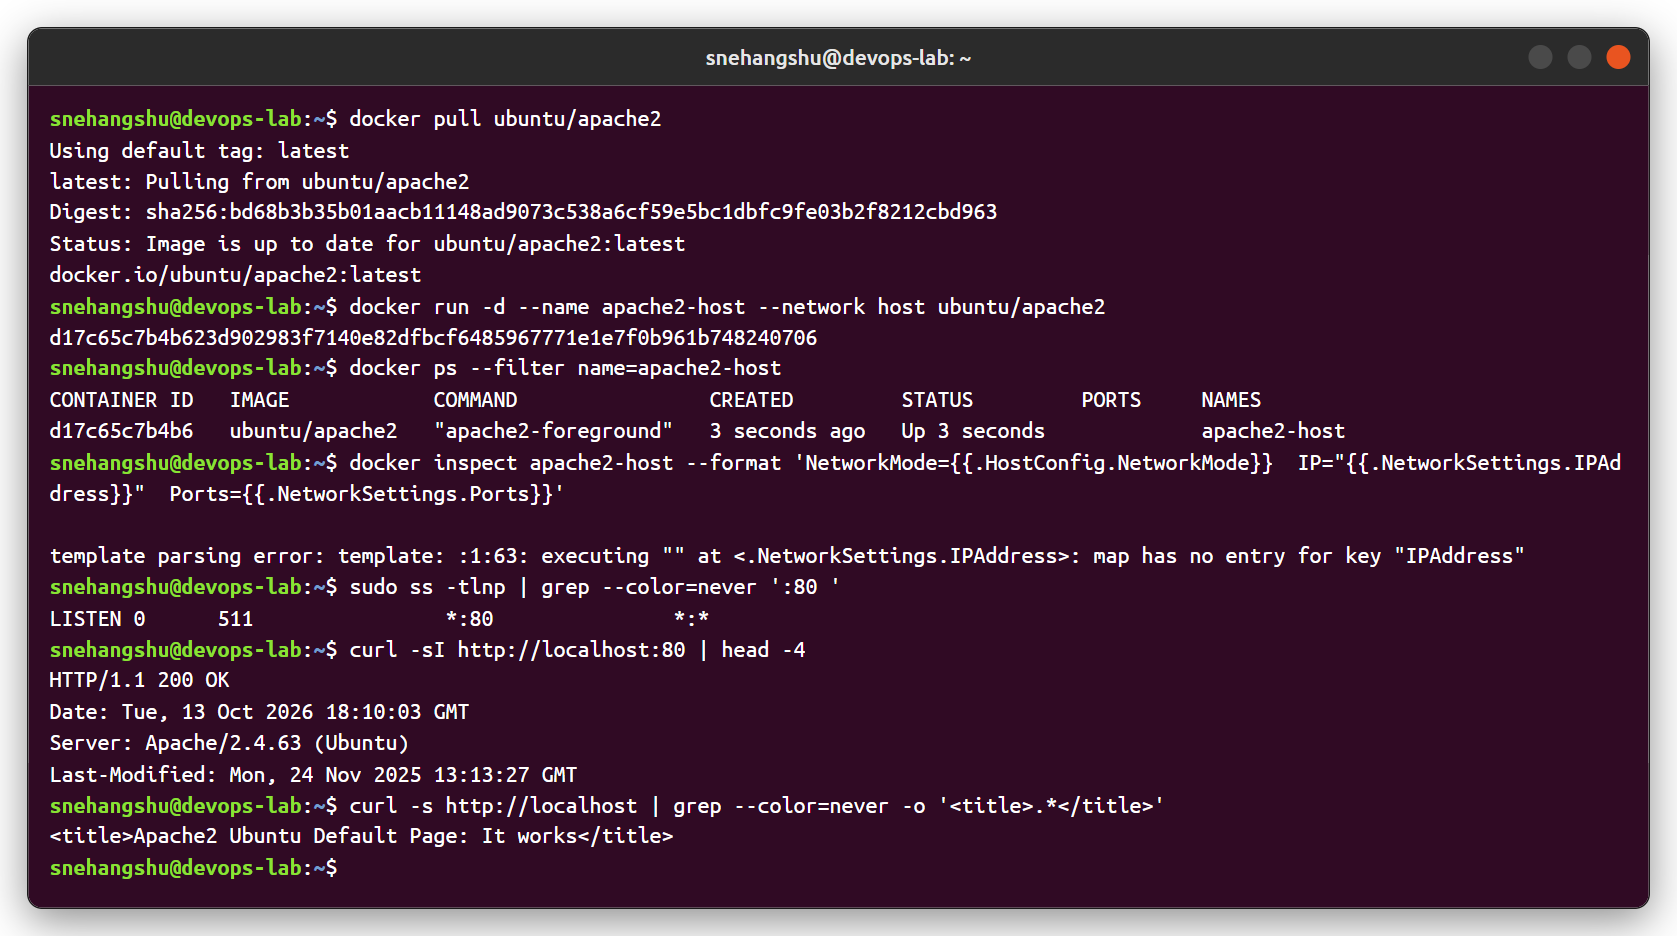
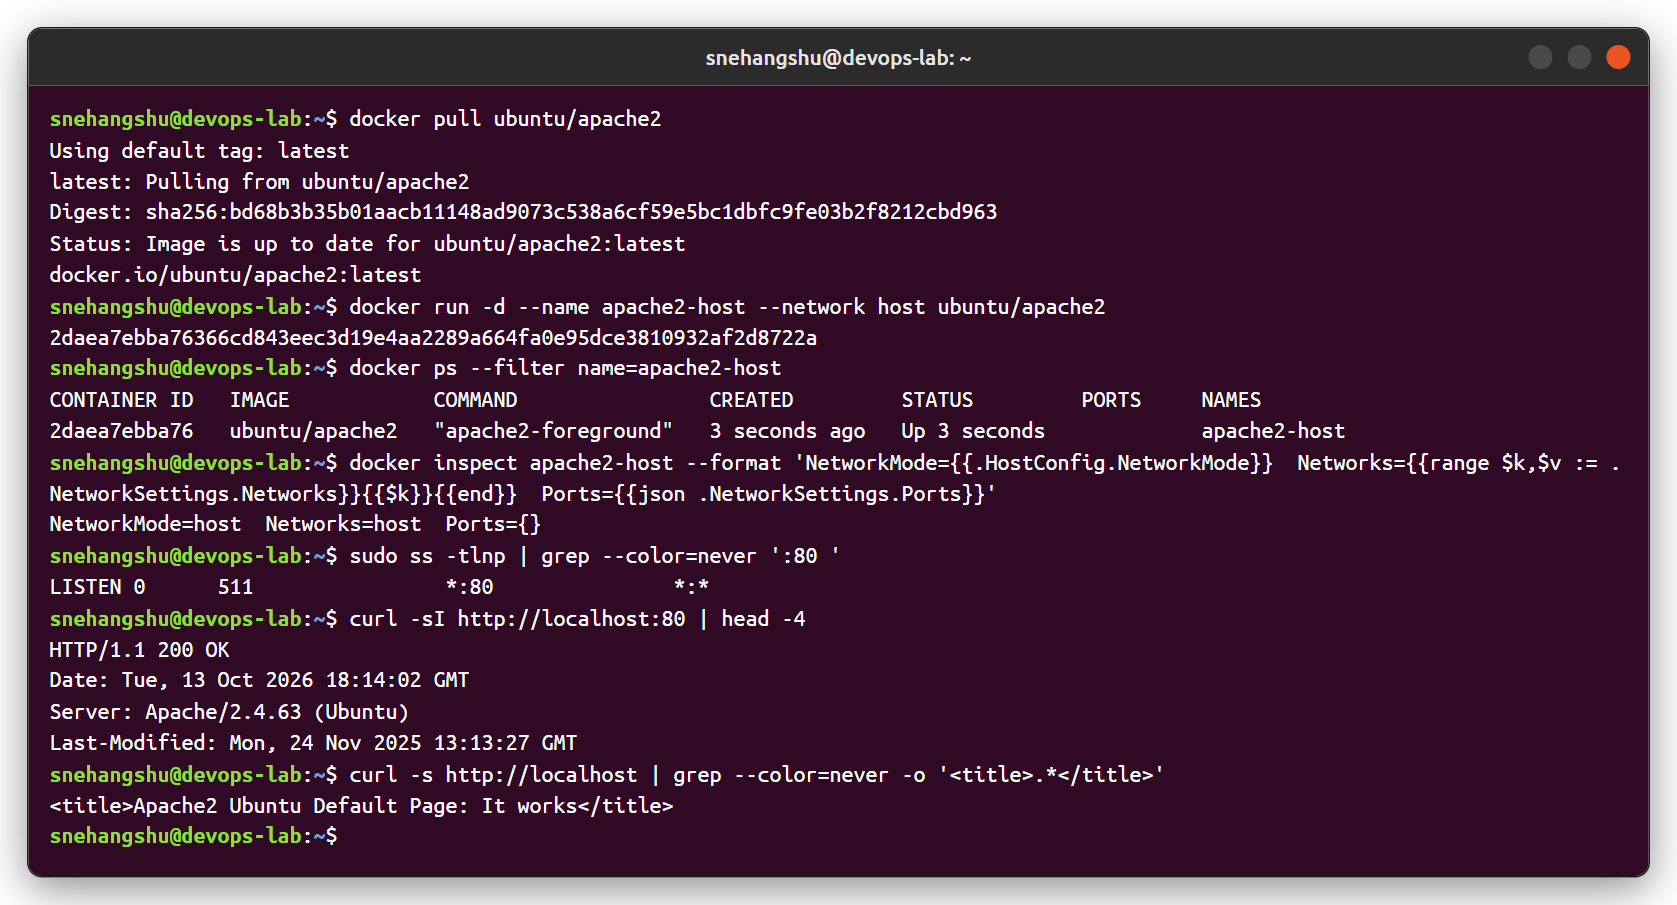
fix apache host network screenshot

Changed region(s): [[0.031, 0.0928, 0.9612, 0.9901], [0.4031, 0.0309, 0.5891, 0.0928], [0.4031, 0.8354, 0.6822, 0.8663]]

diff --git a/session-08-docker-networking/README.md b/session-08-docker-networking/README.md
@@ -61,7 +61,7 @@ docker run -d --name apache2-host --network host ubuntu/apache2
 curl http://localhost:80
 ```
 
-With `--network host` the container uses the host's network stack directly: it has no own IP, no port mapping (`Ports=map[]`), and Apache listens on port 80 of the host itself (`ss` shows it on `*:80`).
+With `--network host` the container uses the host's network stack directly: it is only attached to the `host` network, has no port mapping (`Ports={}`), and Apache listens on port 80 of the host itself (`ss` shows it on `*:80`).
 
 ![apache2 host network](screenshots/05-apache2-host-network.png)
 
